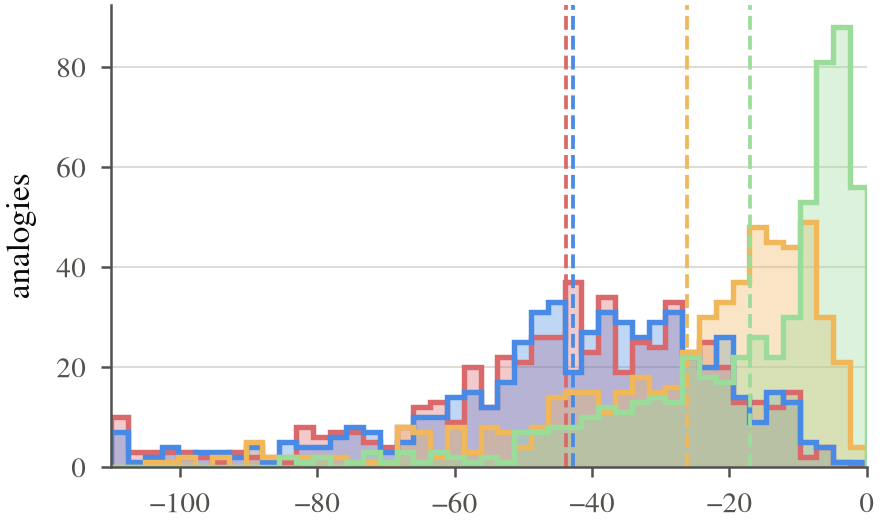
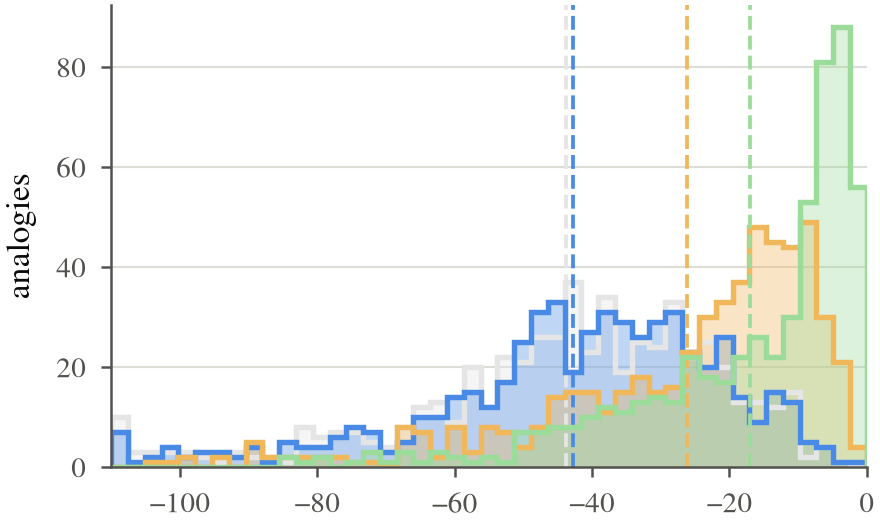
invention figures: grey skeleton series; gain-above-skeleton line figure with s.e.m. bars

diff --git a/src/analogy_ig/scripts/make_camera_figures.py b/src/analogy_ig/scripts/make_camera_figures.py
@@ -222,7 +222,7 @@ def main(config_path, overwrite=False, debug=False):
 
     # ---- Fig 2b: raw joint log-probability of the invented concept's description under four inputs,
     #      reader-averaged: skeleton only / + analogy instruction / + aligned paths / + source facts
-    AMB = "#F0B75B"
+    AMB, GREY = "#F0B75B", "#E5E5E5"
     series = {}
     for col in ("L_inv_structure", "L_inv_instruction", "L_inv_mapping", "L_inv_content"):
         series[col] = pd.concat([data[n].set_index("id")[col].rename(n) for n in names], axis=1).mean(axis=1)
@@ -230,7 +230,7 @@ def main(config_path, overwrite=False, debug=False):
     fig, ax = plt.subplots(figsize=(COL_W, 2.0))
     lo, hi = -110, 0
     bins = np.linspace(lo, hi, 46)
-    for col, colr in (("L_inv_structure", RED), ("L_inv_instruction", BLU), ("L_inv_mapping", AMB), ("L_inv_content", GRN)):
+    for col, colr in (("L_inv_structure", GREY), ("L_inv_instruction", BLU), ("L_inv_mapping", AMB), ("L_inv_content", GRN)):
         x = F[col].clip(lo, hi)
         ax.hist(x, bins=bins, histtype="stepfilled", color=colr, alpha=0.35, lw=0)
         ax.hist(x, bins=bins, histtype="step", color=colr, lw=1.3)
@@ -244,8 +244,27 @@ def main(config_path, overwrite=False, debug=False):
                                  "mean_instruction": float(F.L_inv_instruction.mean()),
                                  "mean_mapping": float(F.L_inv_mapping.mean()),
                                  "mean_content": float(F.L_inv_content.mean()),
-                                 "colors": {"relational skeleton": RED, "analogy instruction": BLU,
+                                 "colors": {"relational skeleton": GREY, "analogy instruction": BLU,
                                             "analogy mapping": AMB, "analogy content": GRN}}
+
+    # ---- Fig 2c: information gain above the skeleton, one point per input in order, s.e.m. bars ----
+    steps = (("L_inv_instruction", "(a)", BLU), ("L_inv_mapping", "(b)", AMB), ("L_inv_content", "(c)", GRN))
+    gains = [(F[c] - F.L_inv_structure) for c, _, _ in steps]
+    means = [float(g.mean()) for g in gains]
+    sems = [float(g.std(ddof=1) / np.sqrt(len(g))) for g in gains]
+    fig, ax = plt.subplots(figsize=(COL_W, 2.0))
+    xs = np.arange(len(steps))
+    ax.plot(xs, means, "-", color=INK2, lw=1.0, zorder=1)
+    for x, m, se, (_, _, colr) in zip(xs, means, sems, steps):
+        ax.errorbar(x, m, yerr=se, fmt="o", color=colr, mec=INK2, mew=0.6, ms=6, ecolor=INK2, elinewidth=1.0, capsize=3, zorder=2)
+    ax.set_xticks(xs); ax.set_xticklabels([lab for _, lab, _ in steps])
+    ax.set_xlim(-0.4, len(steps) - 0.6); ax.set_ylim(0, max(m + se for m, se in zip(means, sems)) * 1.15)
+    ax.set_ylabel("information gain above skeleton (nats)", color=INK)
+    ax.grid(axis="y", color=GRID, lw=0.5); ax.set_axisbelow(True); ax.tick_params(colors=INK2)
+    for sp in ("left", "bottom"):
+        ax.spines[sp].set_color(INK2)
+    save(fig, "fig_invention_gain_line")
+    summary["invention_line"] = {"n": int(len(F)), "inputs": [lab for _, lab, _ in steps], "mean_gain": means, "sem": sems}
 
     # ---- Fig 3: judge contrasts (Cliff's delta) --------------------------------------------
     integ_v, coh_v = [], []

diff --git a/docs/tracks/analogy_ig/progress.md b/docs/tracks/analogy_ig/progress.md
@@ -217,3 +217,11 @@ assets from `make_report_assets.py`). P1b section to be filled when the target-s
 - The user set aside the question of whether an association path between the same two anchors
   carries information about the analogy's target path. Not pursued for now; would need a dataset
   variant for `kombine_retest30`, which shares the 30 anchor pairs across tasks but has no judge scores.
+
+## 2026-09-21: invention figures
+- Invention histogram: skeleton series recoloured #E5E5E5 (user); instruction #488AE5, mapping
+  #F0B75B, content #9CDC9B unchanged. New line figure `fig_invention_gain_line`: gain above the
+  skeleton per input in order, (a) instruction +1.2, (b) instruction and mapping +17.8,
+  (c) instruction, mapping and projected facts +27.0 nats, s.e.m. 0.16 / 0.57 / 0.68 over 561
+  analogies (reader-averaged). Output dir `camera_figures_invblock_grey`; PDFs in the paper's
+  `media/figures/`.
